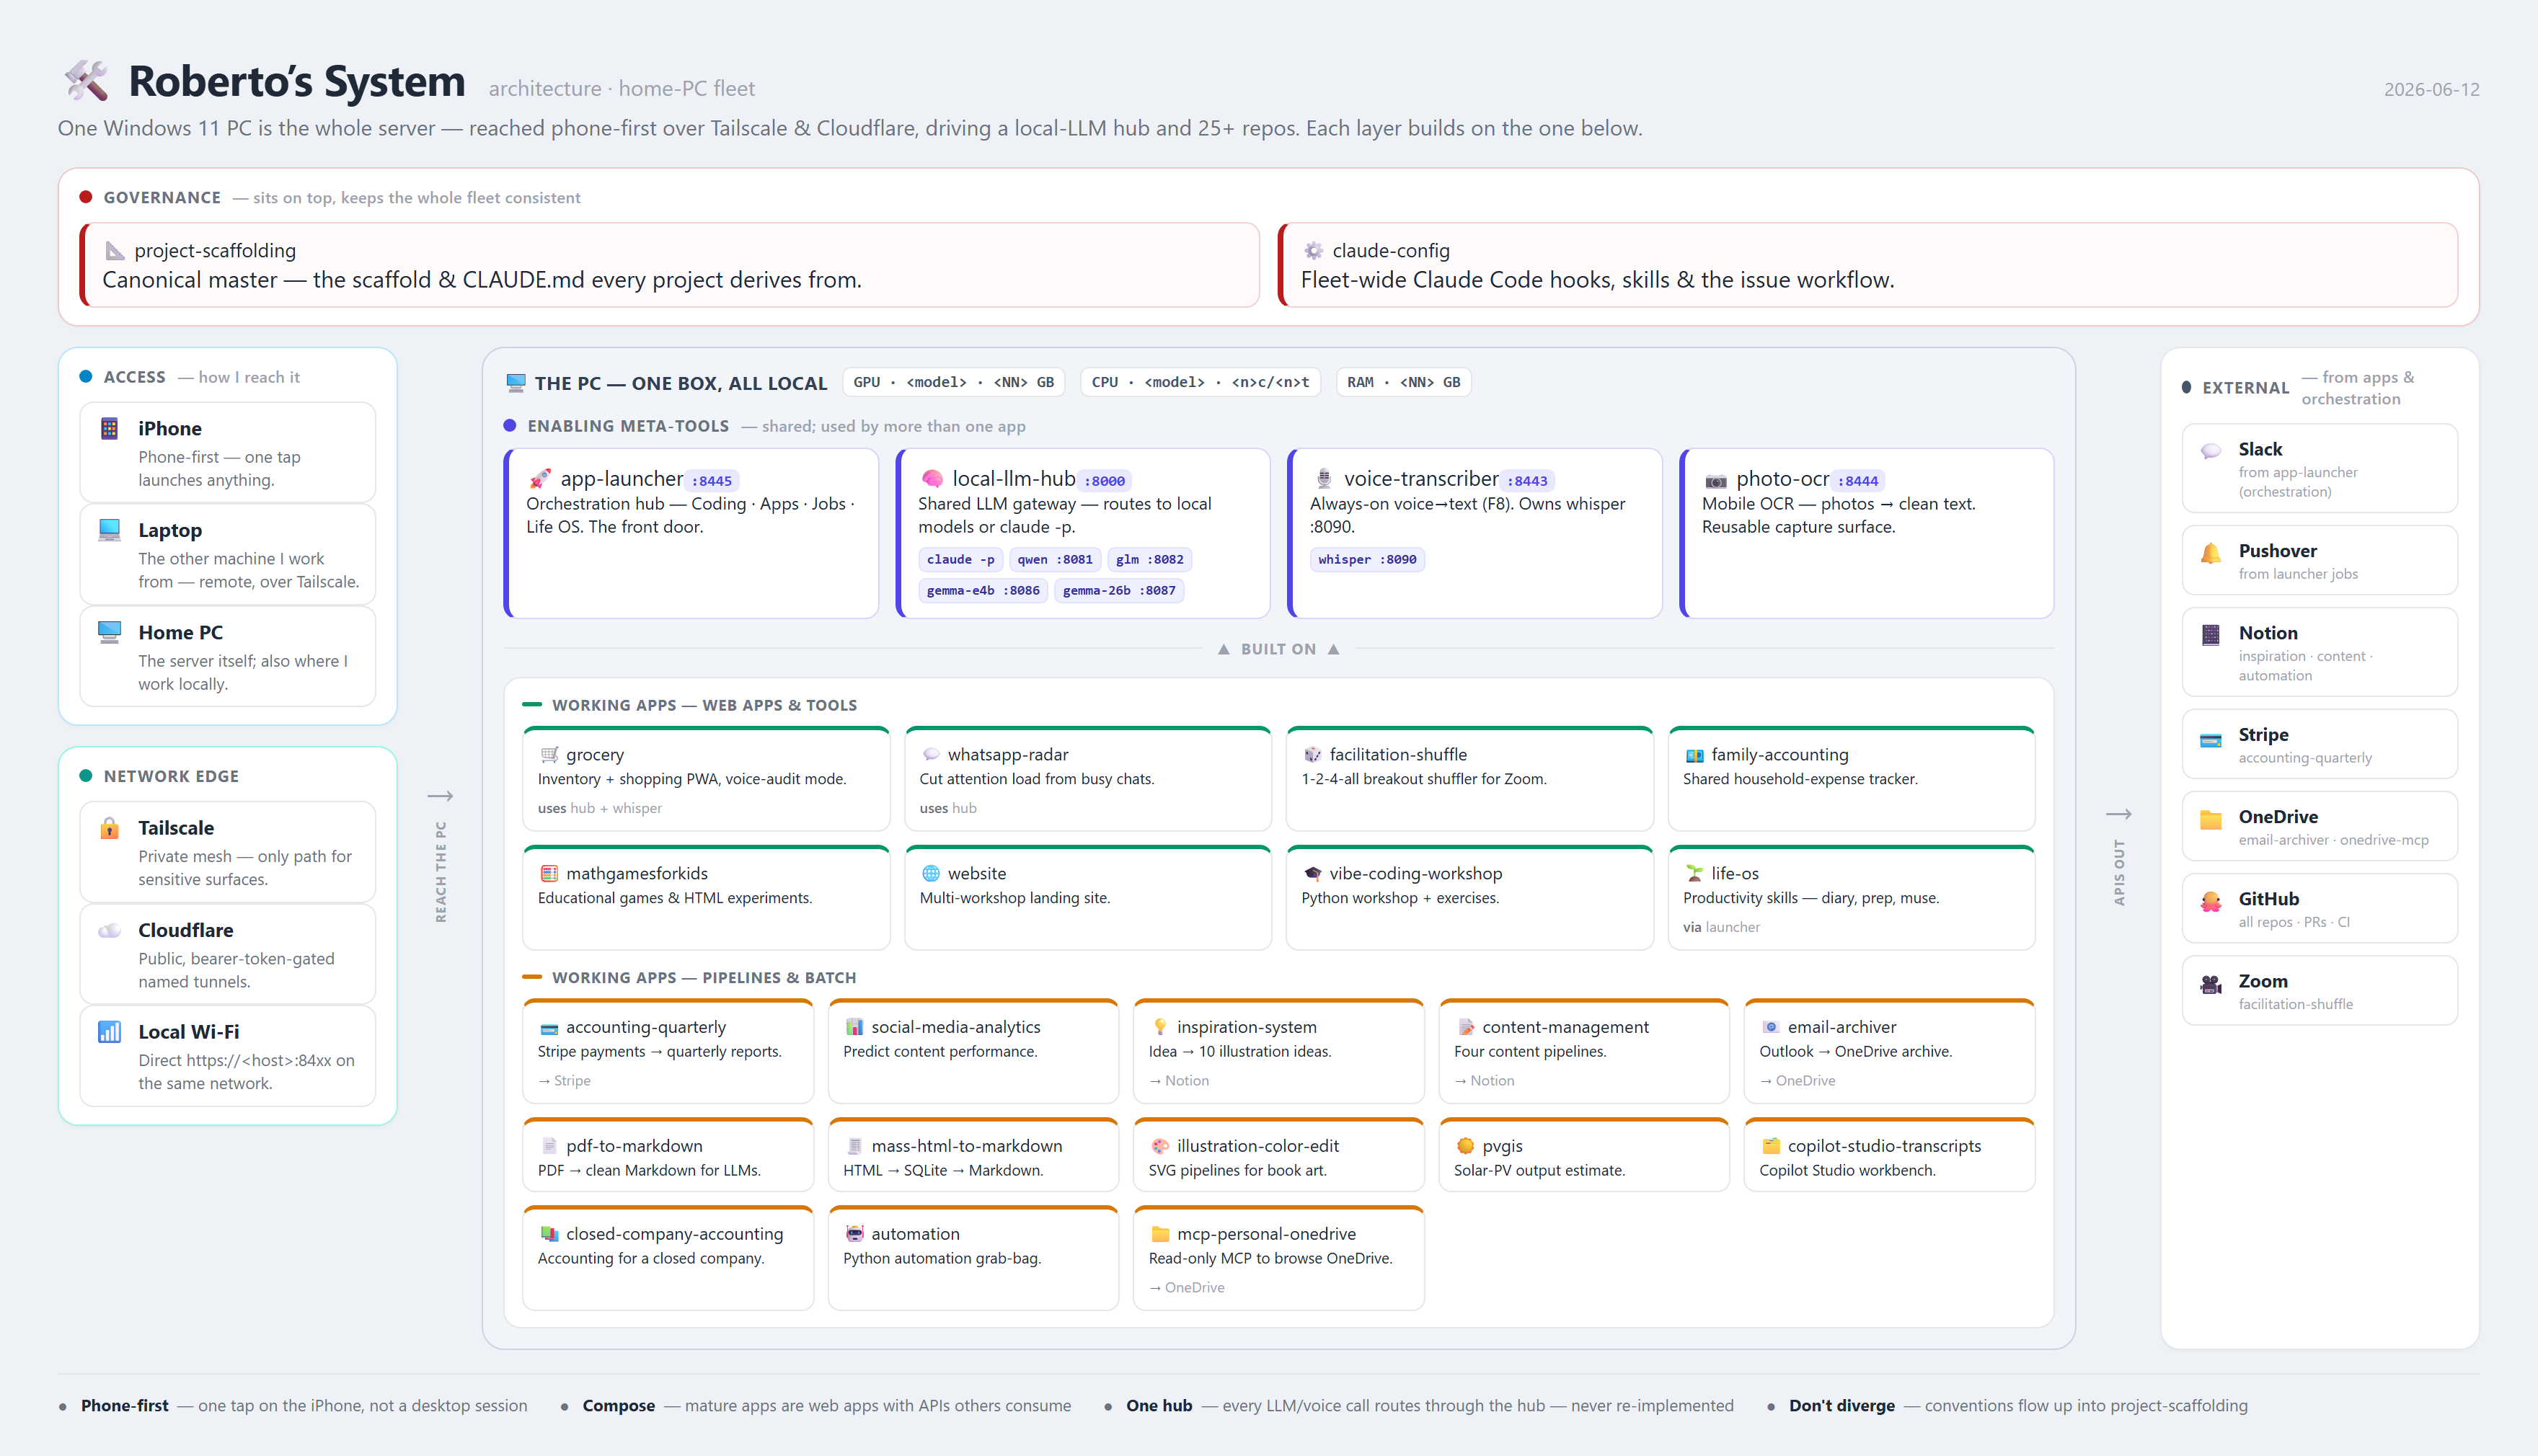
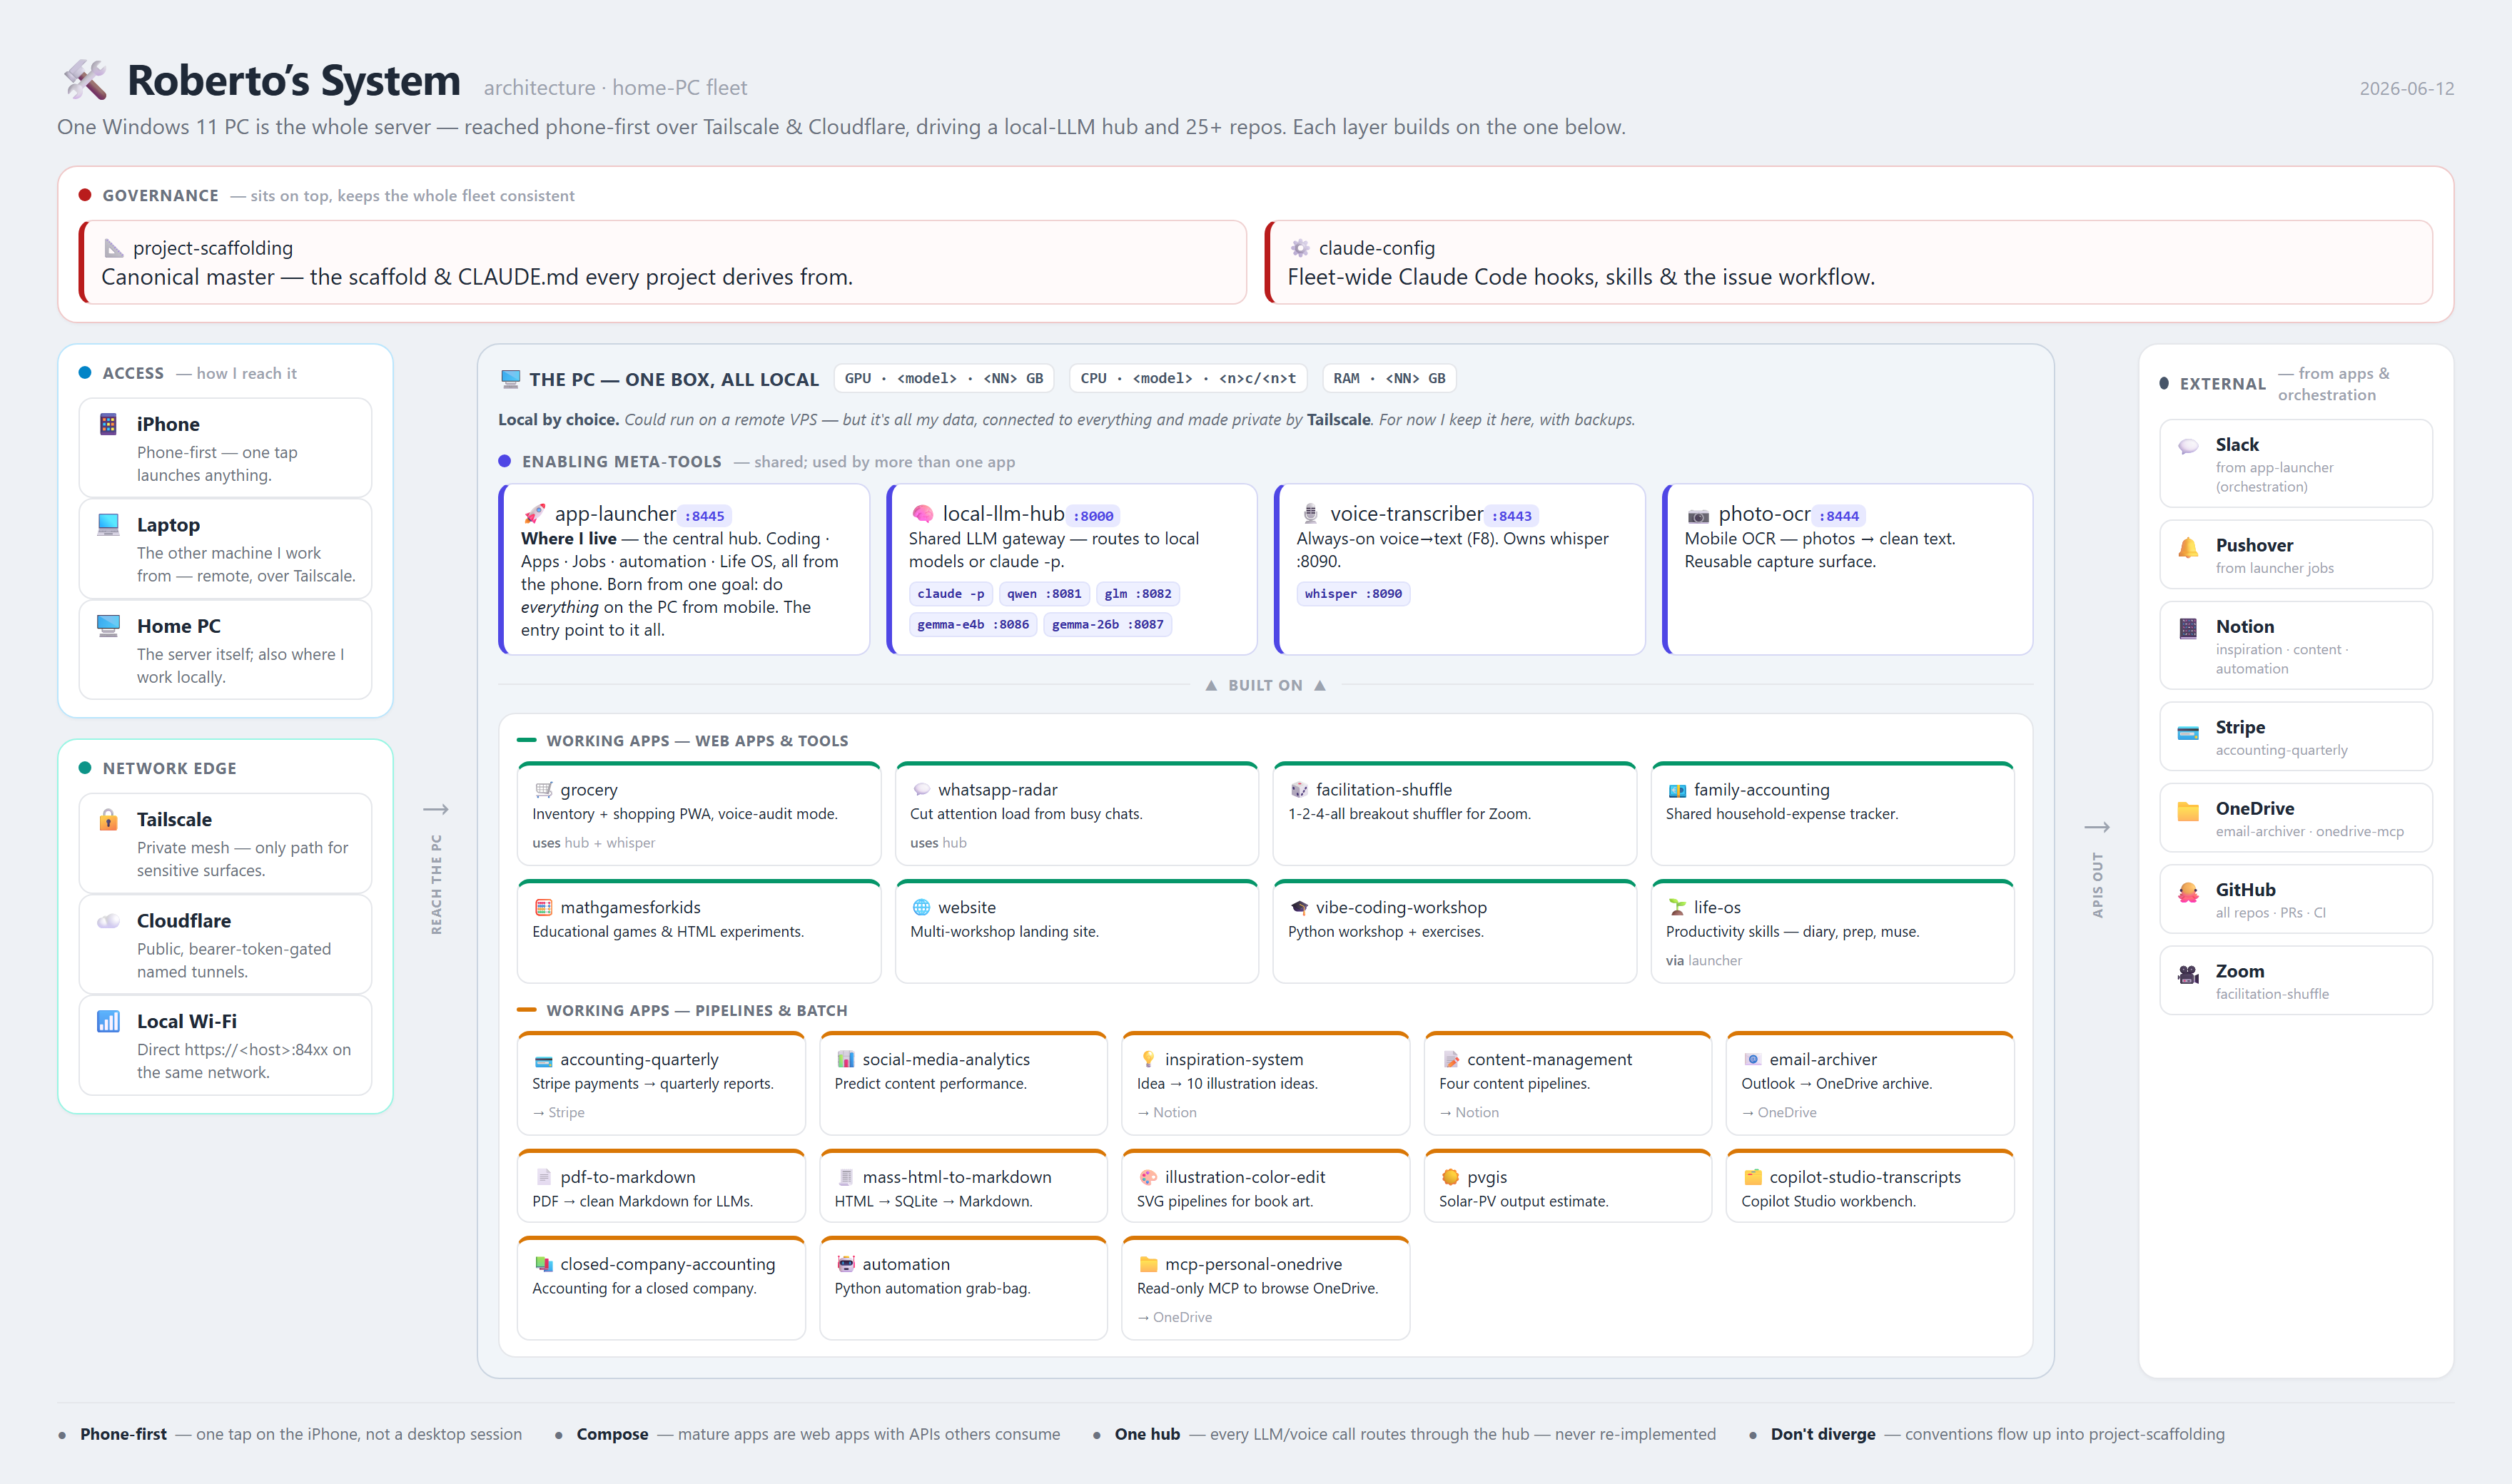
docs: enrich app-launcher (the hub I live in) + local-by-choice note
- app-launcher card/row: central hub, jobs+automation+Life OS, born from
  'do everything on the PC from the phone'
- PC: 'local by choice' note — could be a VPS, kept local (all my data,
  private via Tailscale, backed up); design decision, not a constraint
- system-map.html: ?placeholders=1 forces placeholder specs so the committed
  PNG never bakes in real specs even when system-map.local.js is present

Refs #94

diff --git a/architecture/system-map.html b/architecture/system-map.html
@@ -57,6 +57,8 @@
     padding:13px 14px 14px;display:flex;flex-direction:column;gap:12px;height:100%;}
   .pc-head{display:flex;align-items:center;gap:10px;flex-wrap:wrap;}
   .pc-title{font-size:13px;font-weight:750;letter-spacing:.3px;color:#334155;text-transform:uppercase;}
+  .pc-note{font-size:11.5px;font-style:italic;color:var(--muted);margin:-2px 0 2px;line-height:1.4;}
+  .pc-note b{font-style:normal;color:#475569;}
   .spec{font:600 11px/1 ui-monospace,Menlo,monospace;color:#475569;background:#fff;
     border:1px solid var(--line);border-radius:6px;padding:4px 7px;}
   /* enabling row */
@@ -146,6 +148,7 @@
           <span class="spec" id="sp-cpu"></span>
           <span class="spec" id="sp-ram"></span>
         </div>
+        <div class="pc-note"><b>Local by choice.</b> Could run on a remote VPS — but it's all my data, connected to everything and made private by <b>Tailscale</b>. For now I keep it here, with backups.</div>
         <!-- enabling -->
         <div>
           <div class="zlabel" style="margin-bottom:8px"><span class="dot" style="background:var(--enable)"></span>Enabling meta-tools <span class="sub">— shared; used by more than one app</span></div>
@@ -206,7 +209,7 @@ const DATA = {
   // see system-map.local.example.js for the format.
   compute:{gpu:"GPU · &lt;model&gt; · &lt;NN&gt; GB",cpu:"CPU · &lt;model&gt; · &lt;n&gt;c/&lt;n&gt;t",ram:"RAM · &lt;NN&gt; GB"},
   enabling:[
-    {ic:"🚀",nm:"app-launcher",port:":8445",ds:"Orchestration hub — Coding · Apps · Jobs · Life OS. The front door."},
+    {ic:"🚀",nm:"app-launcher",port:":8445",ds:"<b>Where I live</b> — the central hub. Coding · Apps · Jobs · automation · Life OS, all from the phone. Born from one goal: do <i>everything</i> on the PC from mobile. The entry point to it all."},
     {ic:"🧠",nm:"local-llm-hub",port:":8000",ds:"Shared LLM gateway — routes to local models or claude -p.",
       chips:["claude -p","qwen :8081","glm :8082","gemma-e4b :8086","gemma-26b :8087"]},
     {ic:"🎙️",nm:"voice-transcriber",port:":8443",ds:"Always-on voice→text (F8). Owns whisper :8090.",chips:["whisper :8090"]},
@@ -263,8 +266,11 @@ document.getElementById("gov").innerHTML = DATA.governance.map(g=>
 // access / edge
 document.getElementById("access").innerHTML = DATA.access.map(mini).join("");
 document.getElementById("edge").innerHTML = DATA.edge.map(mini).join("");
-// specs — merge gitignored local overrides (real specs) over the placeholders
-const compute = Object.assign({}, DATA.compute, (window.LOCAL && window.LOCAL.compute) || {});
+// specs — merge gitignored local overrides (real specs) over the placeholders.
+// `?placeholders=1` forces placeholders even when system-map.local.js is present,
+// so the committed PNG never bakes in real specs (used by the /system-map skill).
+const forcePH = new URLSearchParams(location.search).has("placeholders");
+const compute = Object.assign({}, DATA.compute, (!forcePH && window.LOCAL && window.LOCAL.compute) || {});
 document.getElementById("sp-gpu").innerHTML=compute.gpu;
 document.getElementById("sp-cpu").innerHTML=compute.cpu;
 document.getElementById("sp-ram").innerHTML=compute.ram;

diff --git a/architecture/ARCHITECTURE.md b/architecture/ARCHITECTURE.md
@@ -51,6 +51,8 @@ One **Windows 11 PC is the entire server.** Unlike a rented VPS, all compute and
 
 > 🔒 **Exact hardware specs are personal detail kept out of git.** The real values live in `architecture/system-map.local.js` (gitignored); `architecture/system-map.local.example.js` shows the format. The visual reads them at render time — placeholders here and in the committed PNG, real values only on the local machine.
 
+> 🧭 **Local by choice (design decision).** This whole stack *could* run on a remote VPS — but everything (all my data, every app) lives and interconnects here, and **Tailscale** makes the single box completely private. For now I deliberately keep it local, with backups, rather than rent a server. Not a constraint — a preference.
+
 ---
 
 ## L1 — Connectivity & access (how I reach the system)
@@ -79,7 +81,7 @@ These are the **pieces that let me do everything else** — each is *used by mor
 
 | Project | What it is | Port | Builds on | Consumed by / External |
 |---|---|---|---|---|
-| 🚀 **app-launcher** | The **orchestration layer**: phone-first hub with four tabs — Coding (launch Claude Code / Codex / Antigravity / Copilot in any repo), Apps (launch any tray webapp), Jobs (one-shot + scheduled scripts, same executor as Stream Deck & Task Scheduler), Life OS (run a `life-os` skill). The single front door to the whole fleet. | `:8445` (+ session-host `:8446`) | L1 access, Task Scheduler | **Slack** (job-failure / status pings), **Pushover** |
+| 🚀 **app-launcher** | The **orchestration layer — where I live.** Phone-first hub with four tabs: Coding (launch Claude Code / Codex / Antigravity / Copilot in any repo), Apps (launch any tray webapp), Jobs (one-shot + scheduled scripts + automation, same executor as Stream Deck & Task Scheduler), Life OS (run a `life-os` skill). The single front door to the whole fleet — and the project that started it all: born from one goal, *do everything on the PC from the phone.* | `:8445` (+ session-host `:8446`) | L1 access, Task Scheduler | **Slack** (job-failure / status pings), **Pushover** |
 | 🧠 **local-llm-hub** | The **shared LLM gateway**: one HTTP hub exposing Anthropic-shape and OpenAI-shape APIs, routed by model name to the local models or to the `claude -p` CLI (subscription). Every app that needs an LLM call routes through here — apps never re-implement their own `claude -p` wrapper. | `:8000` | L0 GPU/RAM | downstream apps (e.g. grocery audit), coding agents |
 | 🎙️ **voice-transcriber** | The **shared speech layer**: always-on local voice-to-text (whisper.cpp), global `F8` hotkey → auto-paste at the caret. Owns the `whisper-server` on `:8090`, which other apps reuse. | `:8443` (whisper `:8090`) | L0 GPU/RAM | grocery voice-audit (whisper, mutex-shared) |
 | 📷 **photo-ocr** | Mobile-first **OCR service**: snap N photos of a document/screen/email → clean text. A reusable capture-to-text surface (tray + PWA + Cloudflare tunnel), sibling to the launcher and voice apps. | `:8444` | L1 access, L2 hub | (capture surface for downstream use) |